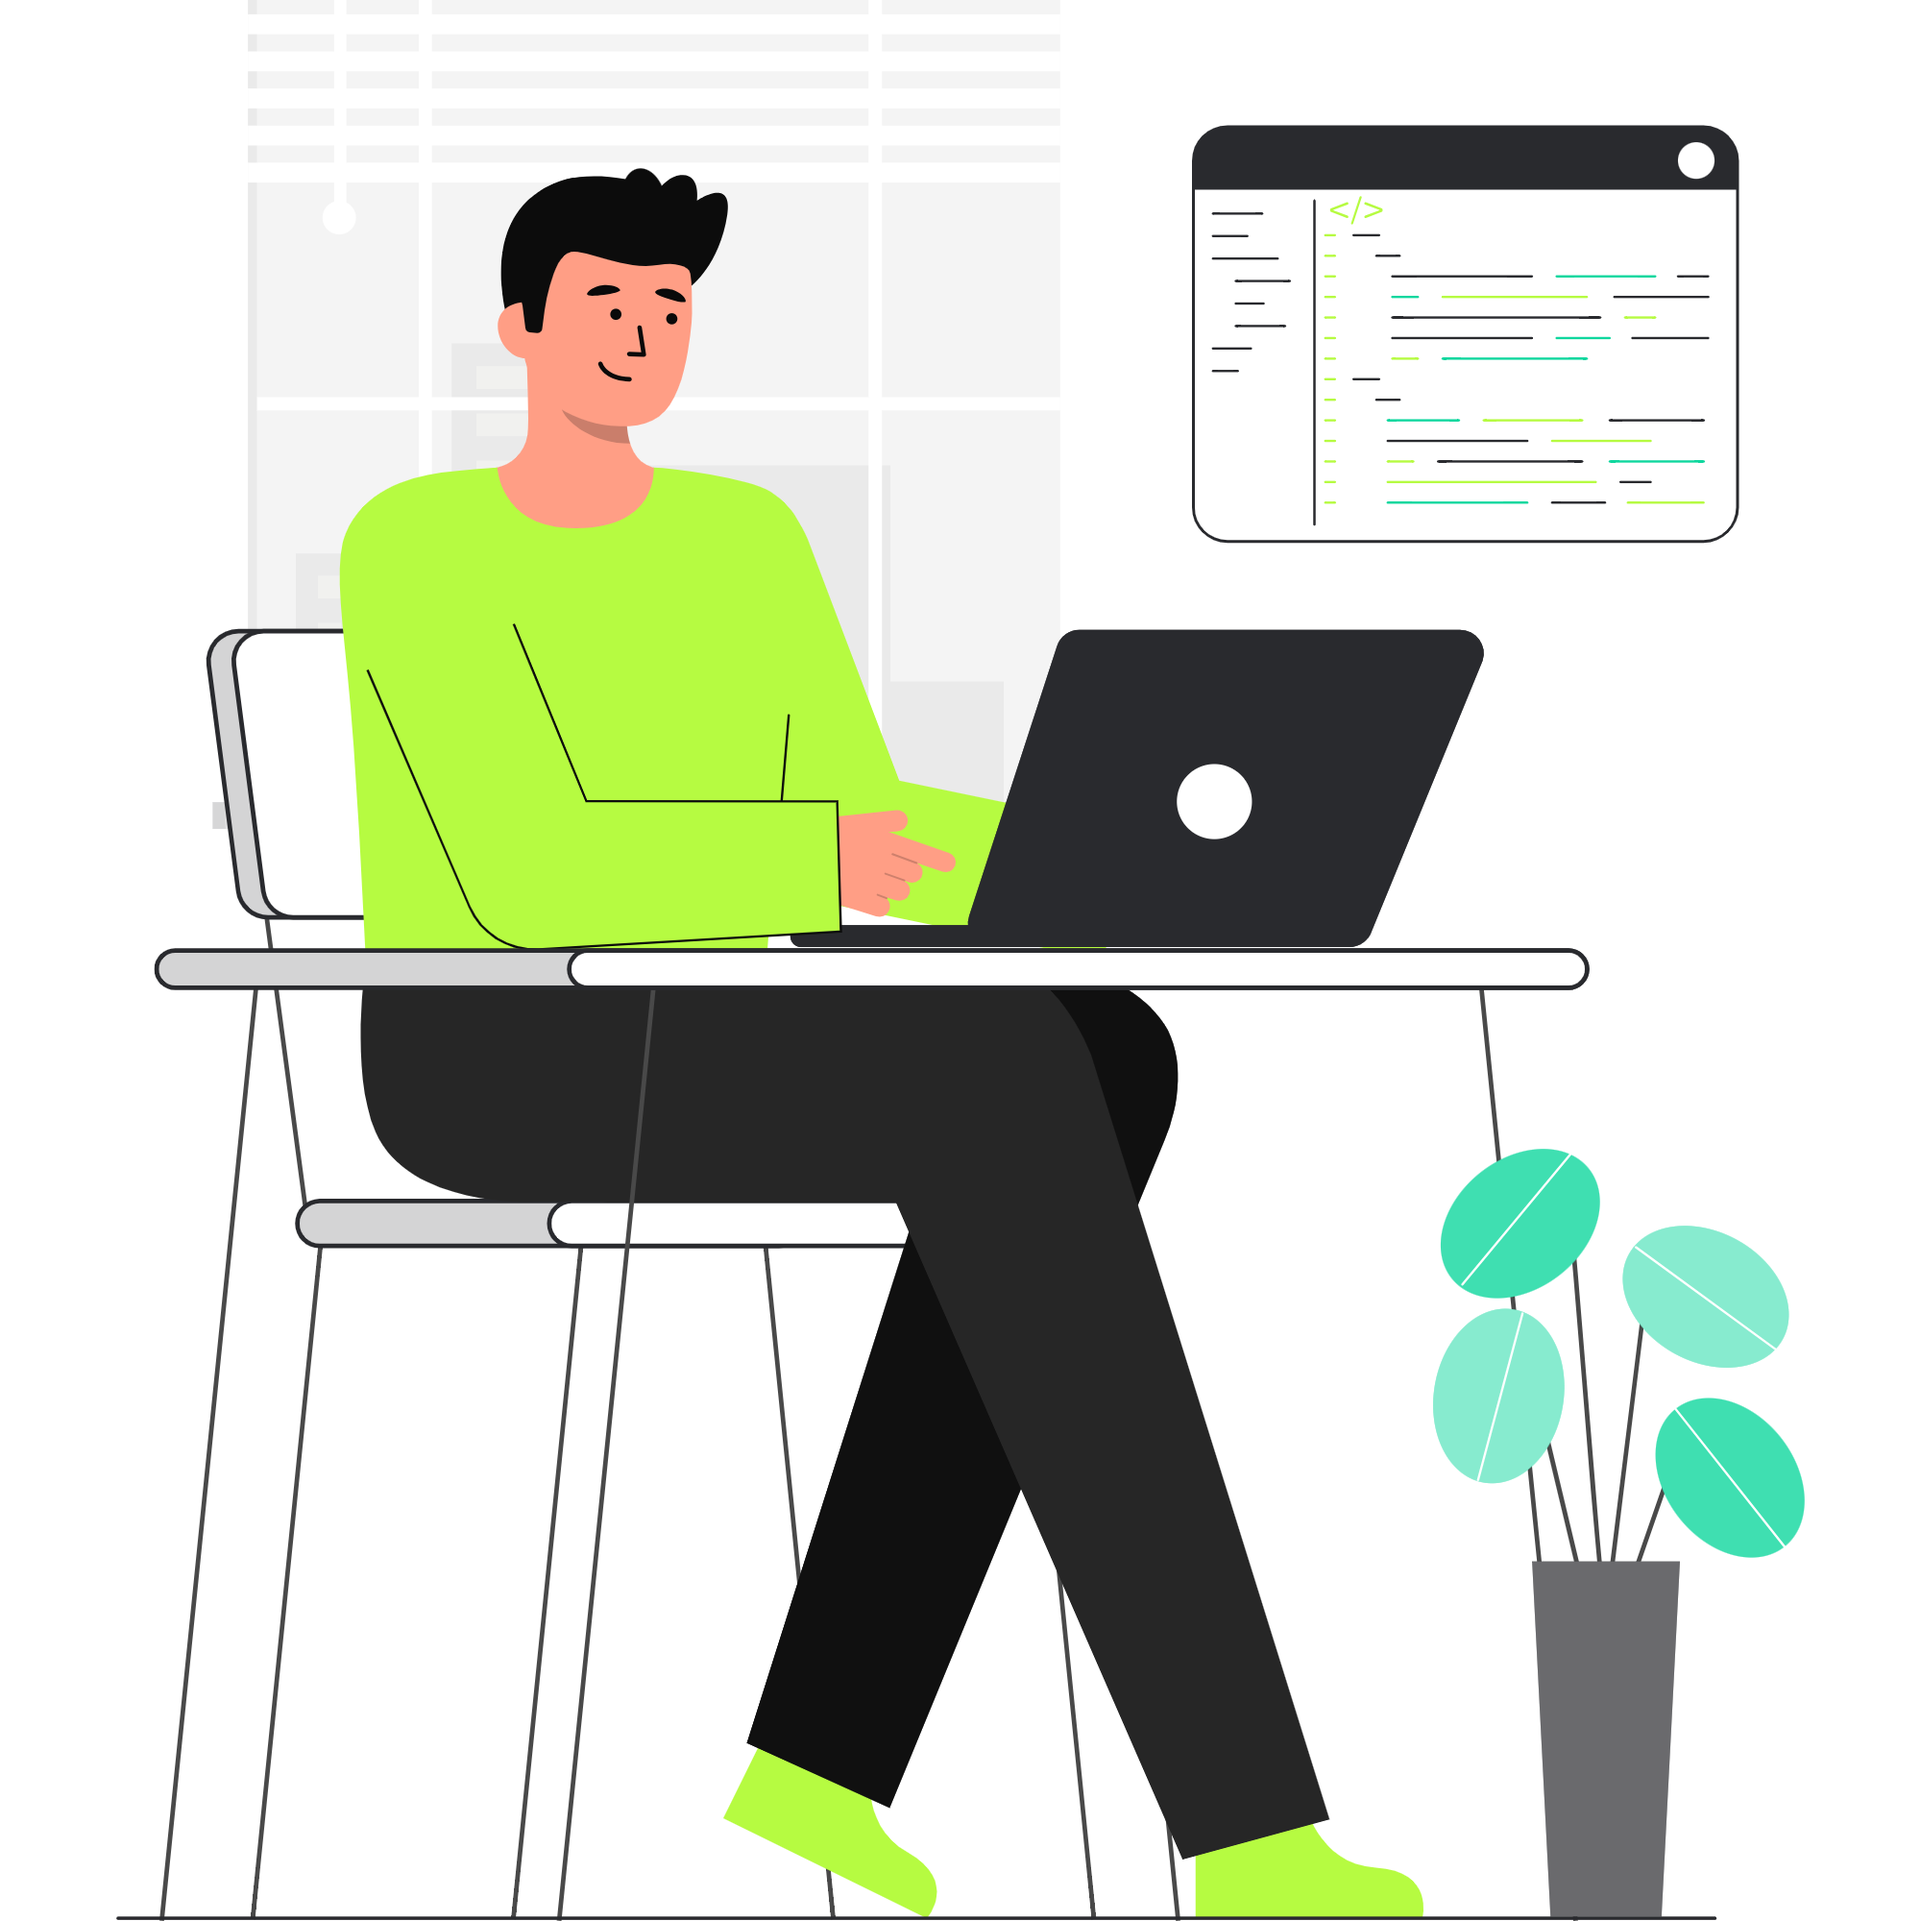
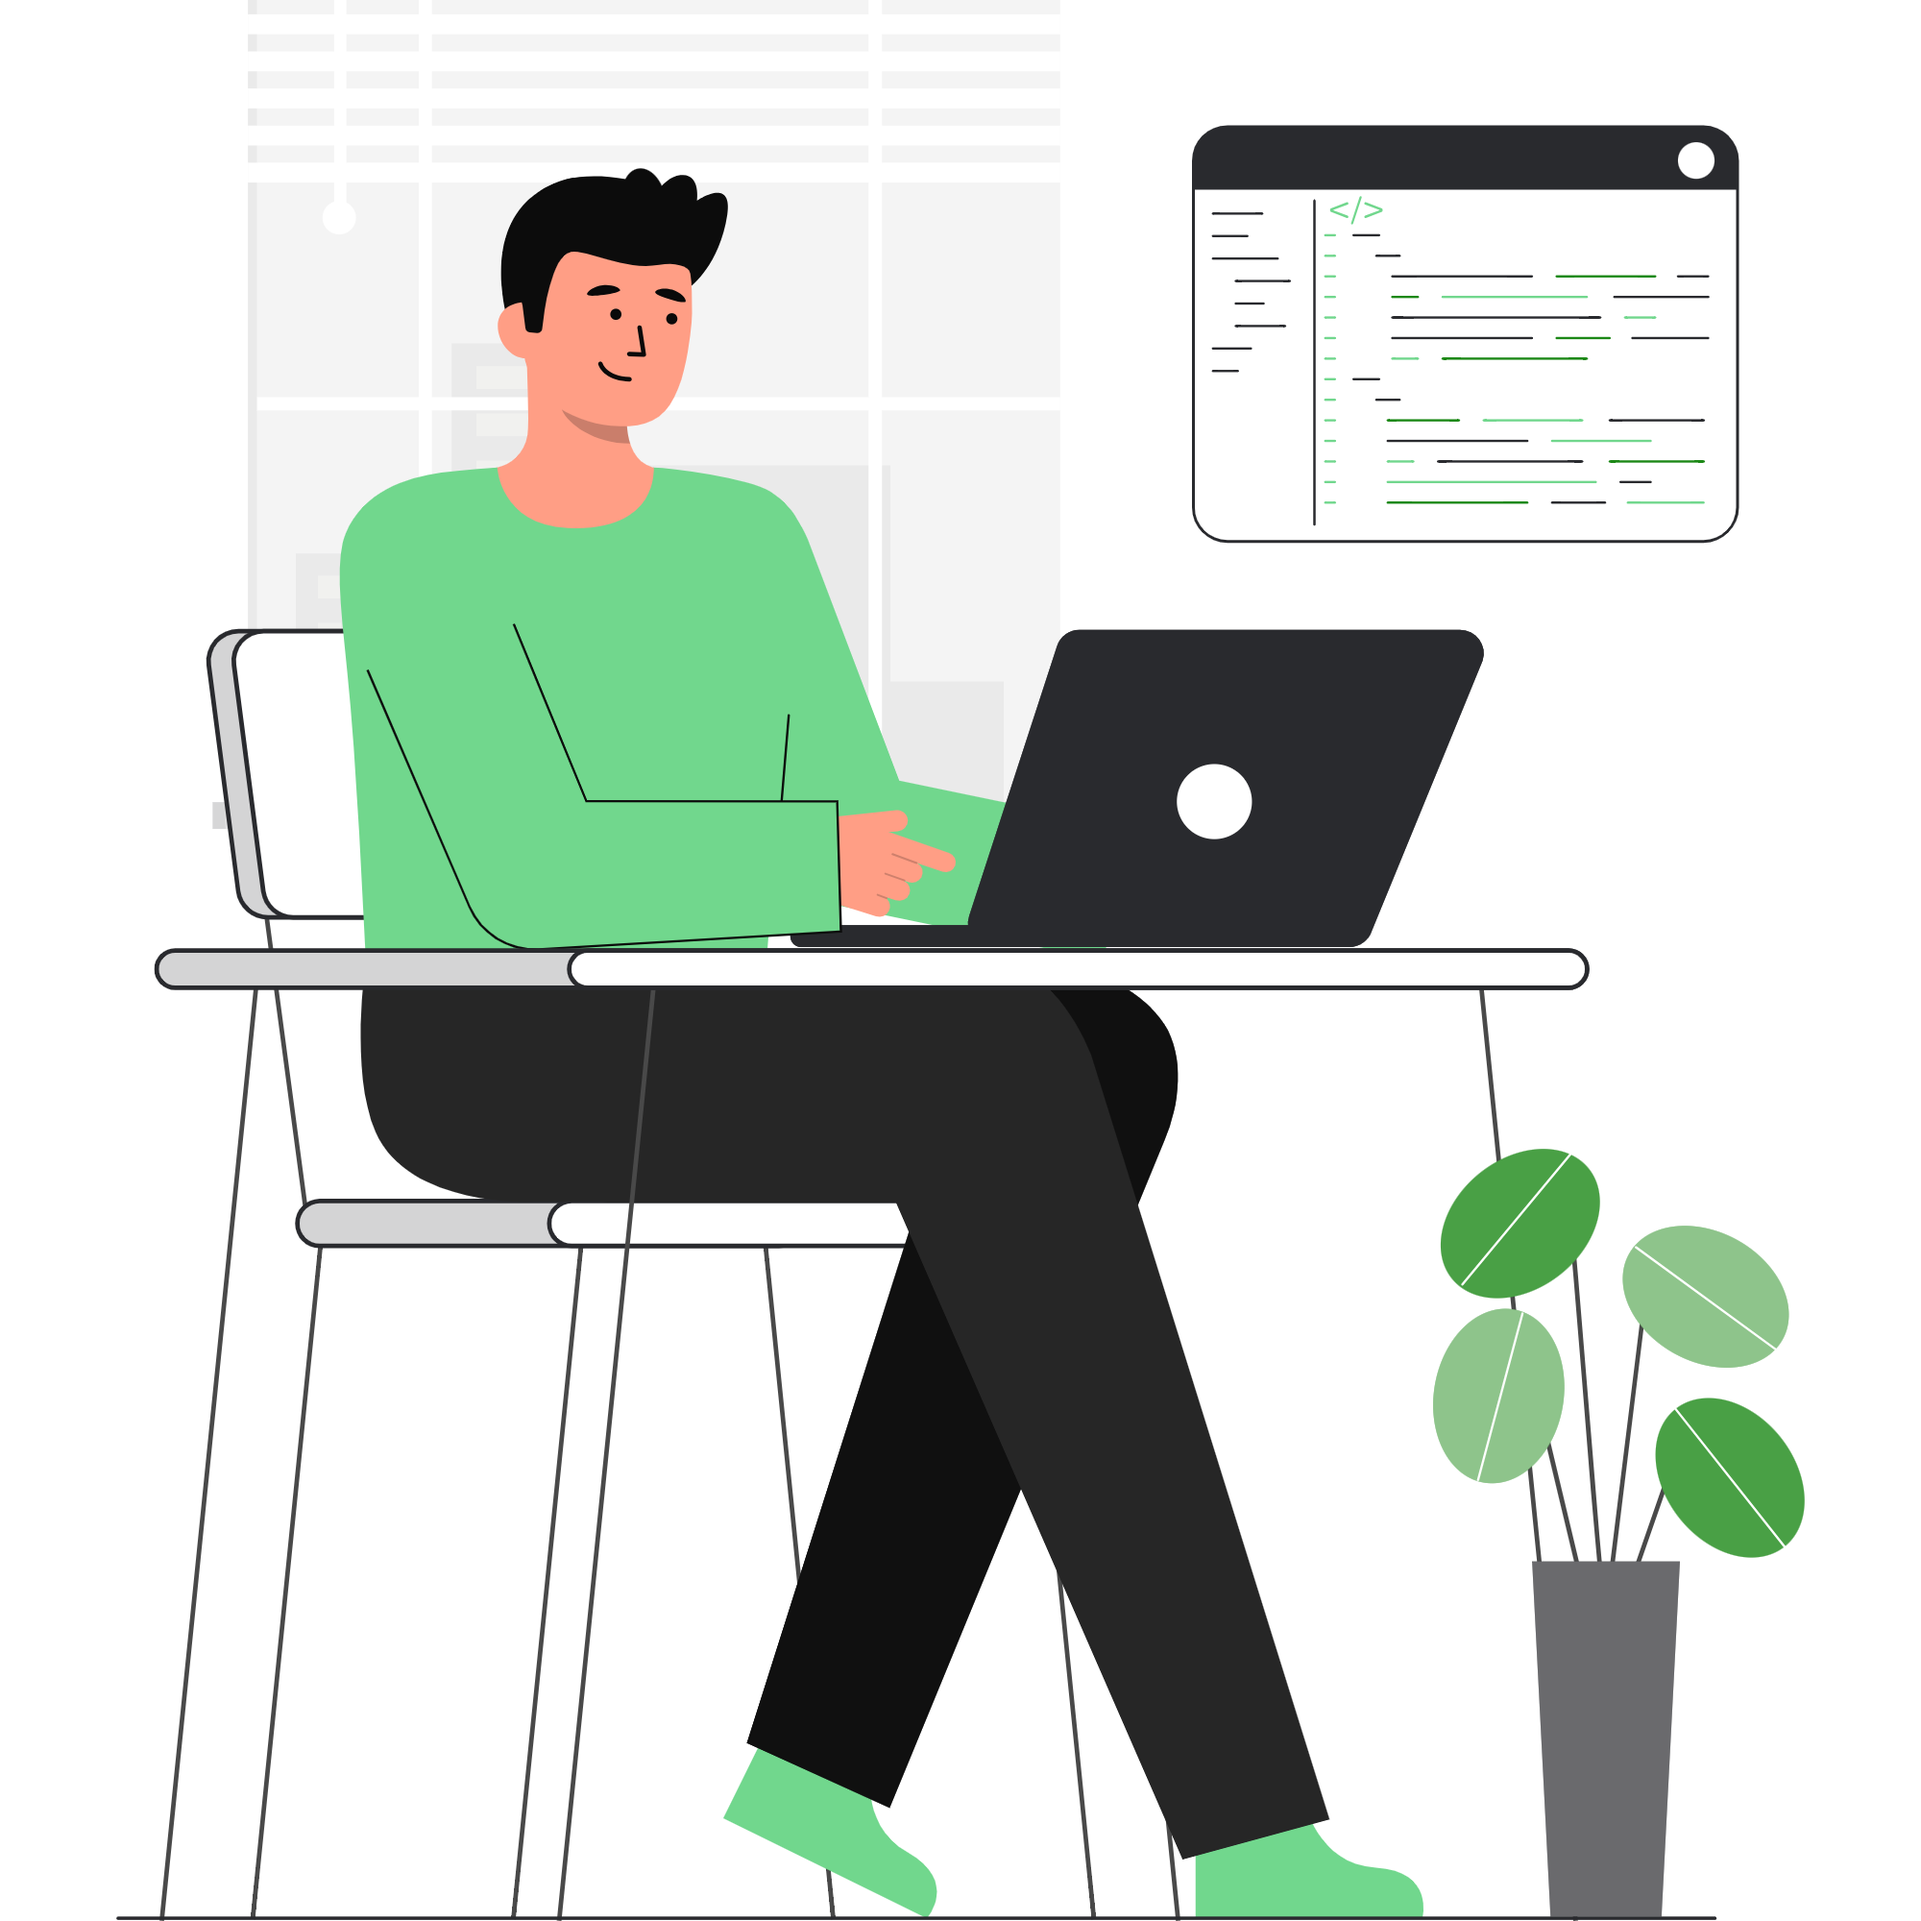
🧑💻

diff --git a/src/Pages/Portfolio/Portfolio.jsx b/src/Pages/Portfolio/Portfolio.jsx
@@ -4,9 +4,7 @@ import Navbar from "../../Components/Navbar/Navbar";
 import Background from "../../Components/Background/Background";
 import TextAnimation from "../../Components/TextAnimation/TextAnimation";
 import { Partytown } from "@builder.io/partytown/react";
-
-import FlexiDrive from "../../Assets/Images/FlexiDrive.png.png";
-import IAffordable from "../../Assets/Images/IAffordable.png";
+import Footer from "../../Components/Footer/Footer";
 
 const Portfolio = () => {
   const sentence4 = "Projects".split("");
@@ -25,55 +23,11 @@ const Portfolio = () => {
         <p>Selected Past Projects I've Undertaken</p>
         <div className="projects">
           <div className="project">
-            <div className="project-img">
-              <img src={FlexiDrive} alt="" />
-            </div>
-            <div className="project-detail">
-              <h2>FlexiDrive (Car Rental Solution)</h2>
-              <p>Web Development</p>
-              <button className="button">
-                <span>View</span>
-              </button>
-            </div>
-          </div>
-          <div className="project">
-            <div className="project-img">
-              <img src={IAffordable} alt="" />
-            </div>
-            <div className="project-detail">
-              <h2>IAffordableNet ( ISP )</h2>
-              <p>Web Development</p>
-              <button className="button">
-                <span>View</span>
-              </button>
-            </div>
-          </div>
-          <div className="project">
-            <div className="project-img">
-              <img src={IAffordable} alt="" />
-            </div>
-            <div className="project-detail">
-              <h2>IAffordableNet ( ISP )</h2>
-              <p>Web Development</p>
-              <button className="button">
-                <span>View</span>
-              </button>
-            </div>
-          </div>
-          <div className="project">
-            <div className="project-img">
-              <img src={FlexiDrive} alt="" />
-            </div>
-            <div className="project-detail">
-              <h2>FlexiDrive (Car Rental Solution)</h2>
-              <p>Web Development</p>
-              <button className="button">
-                <span>View</span>
-              </button>
-            </div>
+            
           </div>
         </div>
       </div>
+      <Footer />
     </>
   );
 };

diff --git a/src/Components/ServicesHome/HomeService.jsx b/src/Components/ServicesHome/HomeService.jsx
@@ -9,12 +9,37 @@ const HService = () => {
   return (
     <>
       <div className="h-Services">
-        <h1>{sentence.map((letter, index) => {
+        <h1>
+          {sentence.map((letter, index) => {
             return <TextAnimation key={index}>{letter}</TextAnimation>;
-          })} {sentence2.map((letter, index) => {
+          })}{" "}
+          {sentence2.map((letter, index) => {
             return <TextAnimation key={index}>{letter}</TextAnimation>;
-          })}</h1>
+          })}
+        </h1>
         <div className="h-services">
+          <div className="h-service">
+            <i class="fa-solid fa-database"></i>
+            <h2>Software Development</h2>
+            <ul>
+              <li>Functional & OOP</li>
+              <li>JavaScript</li>
+              <li>TypeScript</li>
+              <li>Firebase</li>
+            </ul>
+          </div>
+
+          <div className="h-service">
+            <i class="fa-solid fa-code"></i>
+            <h2>Full-Stack Development</h2>
+            <ul>
+              <li>HTML, CSS & JavaScript</li>
+              <li>Next.js</li>
+              <li>Node.js & MongoDB</li>
+              <li>Git & GitHub</li>
+            </ul>
+          </div>
+
           <div className="h-service">
             <i class="fa-solid fa-layer-group"></i>
             <h2>UI/UX Design</h2>
@@ -24,26 +49,6 @@ const HService = () => {
               <li>Responsive Design</li>
               <li>User Research</li>
               <li>Colors and Typography</li>
-            </ul>
-          </div>
-          <div className="h-service">
-            <i class="fa-solid fa-code"></i>
-            <h2>Front-End Development</h2>
-            <ul>
-              <li>HTML & CSS</li>
-              <li>JavaScript</li>
-              <li>Next.js</li>
-              <li>Git & GitHub</li>
-            </ul>
-          </div>
-          <div className="h-service">
-            <i class="fa-solid fa-database"></i>
-            <h2>Back-End Development</h2>
-            <ul>
-              <li>Node.js</li>
-              <li>Express.js</li>
-              <li>MongoDB</li>
-              <li>Firebase</li>
             </ul>
           </div>
         </div>

diff --git a/src/App.css b/src/App.css
@@ -27,7 +27,7 @@ h4 {
   width: 11px;
 }
 ::-webkit-scrollbar-thumb {
-  background: rgba(162, 222, 59, 0.9);
+  background: #71d78d;
   border-radius: 1px;
 }
 ::-webkit-scrollbar-track {
@@ -61,21 +61,21 @@ h4 {
   font-weight: bold;
   letter-spacing: 0.6px;
   color: #ffffff;
-  border: 0.08em solid #b6fb41;
-  box-shadow: 0 0.4em 0.1em 0.019em #b6fb41;
+  border: 0.08em solid #71d78d;
+  box-shadow: 0 0.4em 0.1em 0.019em #71d78d;
 }
 
 .button span:hover {
   transition: all 0.2s;
   transform: translate(0, 0.1em);
-  box-shadow: 0 0 0 0 #b6fb41;
-  color: #b6fb41;
+  box-shadow: 0 0 0 0 #71d78d;
+  color: #71d78d;
 }
 
 .button span:active {
   transition: all 0.1s;
   transform: translate(0, 0.4em);
-  box-shadow: 0 0 0 0 #b6fb41;
+  box-shadow: 0 0 0 0 #71d78d;
 }
 
 .button span:not(:hover) {
@@ -107,8 +107,8 @@ h4 {
     font-size: 1.1em;
     font-weight: bold;
     color: #ffffff;
-    border: 0.04em solid #b6fb41;
-    box-shadow: 0 0.4em 0.1em 0.019em #b6fb41;
+    border: 0.04em solid #71d78d;
+    box-shadow: 0 0.4em 0.1em 0.019em #71d78d;
   }
 }
 

diff --git a/src/Components/Footer/Footer.jsx b/src/Components/Footer/Footer.jsx
@@ -2,7 +2,7 @@ import React from "react";
 import "./footer.css";
 import ScrollToTop from "react-scroll-to-top";
 
-import FooterIMG from "../../Assets/Images/A-Footer.png";
+import FooterIMG from "../../Components/Navbar/AR-ICON.png";
 
 const Footer = () => {
   return (
@@ -10,7 +10,7 @@ const Footer = () => {
       <ScrollToTop
         smooth
         top="21"
-        style={{ background: "#b7fb41c4", fontWeight: "bolder" }}
+        style={{ background: "#71d78d", fontWeight: "bolder" }}
       />
       <div className="line"></div>
       <div className="copy-write">
@@ -50,7 +50,7 @@ const Footer = () => {
           </a>
         </div>
         <p>
-          © 2023 <span> Abdirahman A. </span> Dev Portfolio Made with ❤.
+          © 2024 <span> Abdirahman A. </span> Dev Portfolio Made with ❤.
         </p>
       </div>
     </>

diff --git a/src/Components/Navbar/Navbar.jsx b/src/Components/Navbar/Navbar.jsx
@@ -1,7 +1,7 @@
 import React, { useState } from "react";
 import "./navbar.css";
 
-import NavIcon from "../../Assets/Images/A-Footer.png";
+import NavIcon from "./AR-ICON.png";
 import { Link, NavLink } from "react-router-dom";
 import TextAnimation from "../TextAnimation/TextAnimation";
 
@@ -11,10 +11,10 @@ const Navbar = () => {
   const handleClick = () => {
     setClick(!click);
   };
-  const sentence = "//Home".split("");
-  const sentence2 = "//About".split("");
-  const sentence3 = "//Portfolio".split("");
-  const sentence4 = "//Contact".split("");
+  const sentence = "Home".split("");
+  const sentence2 = "About".split("");
+  const sentence3 = "Portfolio".split("");
+  const sentence4 = "Contact".split("");
   // const close = () => { setClick(false) };
 
   return (

diff --git a/src/Components/Navbar/navbar.css b/src/Components/Navbar/navbar.css
@@ -36,7 +36,7 @@
 }
 .nav-icon {
   font-size: 29px;
-  color: #b6fb41;
+  color: #71d78d !important;
   display: none;
   cursor: pointer;
 }
@@ -46,18 +46,21 @@
 .nav-items {
   display: flex;
   align-items: center;
-  gap: 1.4rem;
+  gap: 10px;
 }
 
 .nav-links {
-  font-size: 14px !important;
+  font-size: 15.5px !important;
+  padding: 11px 8px;
 }
 .nav-links:hover {
-  color: #b6fb41 !important;
+  color: #71d78d !important;
 }
 
 .nav-links.active {
-  color: #b6fb41 !important;
+  color: #71d78d !important;
+  background: rgba(113, 215, 140, 0.1);
+  border-radius: 4px;
 }
 
 

diff --git a/src/Pages/Home/home.css b/src/Pages/Home/home.css
@@ -35,7 +35,7 @@
 }
 .h-detail h1 {
   font-size: 69px;
-  color: #d6fb41;
+  color: #71d78d;
   /* cursor: pointer; */
 }
 .h-detail p {
@@ -44,7 +44,7 @@
   padding: 1rem 0;
 }
 .h-detail p span{
-  color: #b6fb41;
+  color: #71d78d;
 }
 .h-detail .button {
   width: fit-content !important;
@@ -75,7 +75,7 @@
   font-size: 25px;
 }
 .proj-link h1 span {
-  color: #b6fb41;
+  color: #71d78d;
   cursor: pointer;
 }
 .proj-link h1 span:hover {

diff --git a/src/Pages/About/about.css b/src/Pages/About/about.css
@@ -43,7 +43,7 @@
   padding-bottom: 1.4rem;
 }
 .a-detail h1 {
-  color: #b6fb41;
+  color: #71d78d;
   font-size: 42px;
 }
 .a-detail h1 span{
@@ -111,7 +111,7 @@
 }
 .ex-detail h2 {
   font-size: 40px;
-  color: #b6fb41;
+  color: #71d78d;
 }
 .ex-detail h3 {
   color: grey;
@@ -141,7 +141,7 @@
     font-size: 30px;
   }
   .a-detail h1 {
-    color: #b6fb41;
+    color: #71d78d;
     font-size: 32px;
     font-weight: lighter;
   }

diff --git a/src/Pages/Contact/Contact.jsx b/src/Pages/Contact/Contact.jsx
@@ -26,7 +26,7 @@ const Contact = () => {
           <div className="form">
             <h1>Get In Touch</h1>
             <p>
-              Contact me for freelance or collaboration.
+              Contact me for freelance or collaboration 📞.
             </p>
             <form onSubmit={handleSubmit(onSubmit)} autoComplete="off">
               <div className="row">

diff --git a/src/Components/Skills/skills.css b/src/Components/Skills/skills.css
@@ -28,7 +28,7 @@
 }
 .skill-detail h1 {
   font-size: 54px;
-  color: #b6fb41;
+  color: #71d78d;
 }
 .skill-detail p {
   color: white;
@@ -47,7 +47,7 @@
 .s-content {
   display: grid;
   grid-template-columns: auto auto auto auto auto auto;
-  background: rgb(255, 255, 255);
+  background: rgb(235, 233, 233);
   border-radius: 4px;
   padding: 2rem 1rem;
   gap: 2rem;

diff --git a/public/index.html b/public/index.html
@@ -16,7 +16,7 @@
       name="description"
       content="Web site created using create-react-app"
     />
-    <link rel="website icon" type="png" href="A-Icon.png" />
+    <link rel="website icon" type="png" href="Portfolio.png" />
     <title>
       Abdirahman's Developer Portfolio - Innovative Full-Stack Developer
     </title>

diff --git a/src/Components/ServicesHome/Hservice.css b/src/Components/ServicesHome/Hservice.css
@@ -17,7 +17,7 @@
 .h-Services h1{
     font-size: 74px;
     padding-top: 17px;
-    color: #b6fb41;
+    color: #71d78d;
 }
 
 .h-services{
@@ -43,6 +43,7 @@
 }
 .h-service i{
     font-size: 49px;
+    color: #71d78d;
 }
 .h-service h2{
     font-size: 39px;
